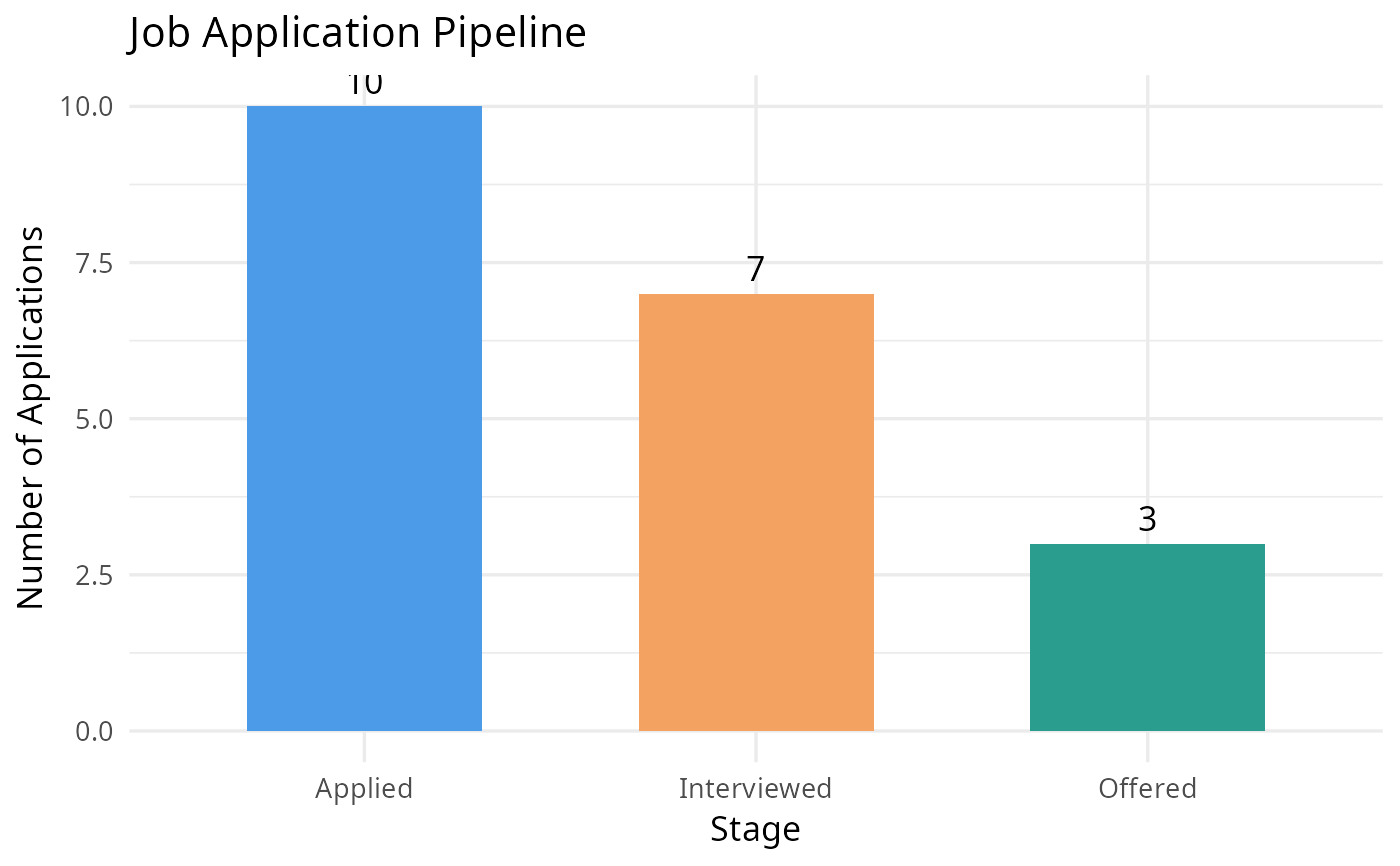
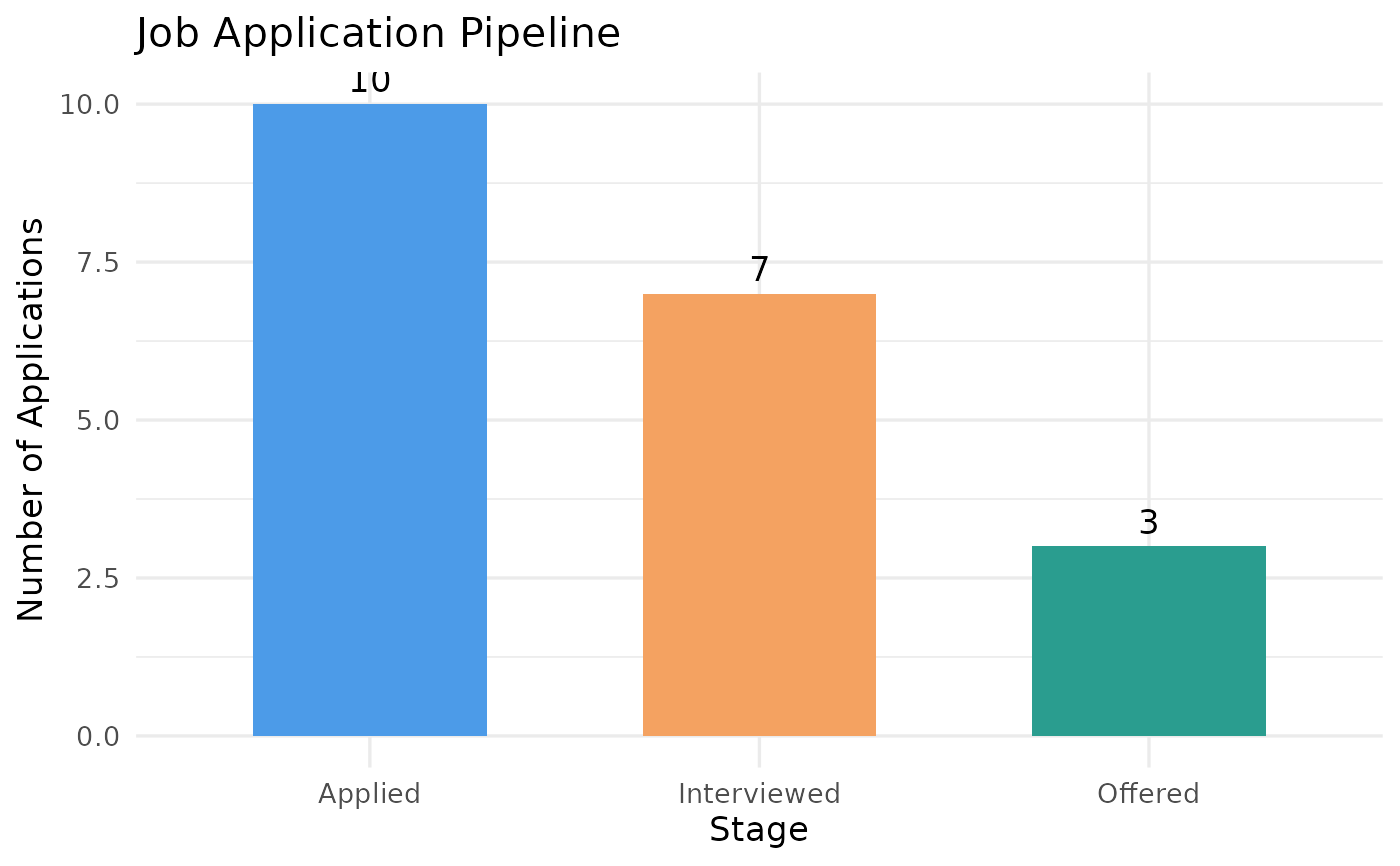
Deploying to gh-pages from @ ADC-405-S26/jobtrackeR@9a5ec8696bbc6f7580f69edbbb02525fc26d8270 🚀

diff --git a/articles/introduction-to-jobtrackr.md b/articles/introduction-to-jobtrackr.md
@@ -22,6 +22,7 @@ companies, locations, and statuses. Which I think is sort of realistic
 of what a semester of job hunting looks like.
 
 ``` r
+
 library(jobtrackr)
 data(jobs)
 ```
@@ -29,6 +30,7 @@ data(jobs)
 Let us take a quick look at what the data contains:
 
 ``` r
+
 head(jobs)
 ```
 
@@ -60,6 +62,7 @@ everything I applied to, what actually happened?
 answers that question in one line.
 
 ``` r
+
 application_summary(jobs)
 ```
 
@@ -88,6 +91,7 @@ submitted, and flags any that have gone more than 21 days with no
 response.
 
 ``` r
+
 result <- days_since_applied(jobs, flag_after = 21)
 result[result$possibly_ghosted == TRUE,
        c("company", "position", "date_applied", "days_waiting")]
@@ -123,6 +127,7 @@ adjusts each offer by the cost of living index of its city, so you can
 compare apples to apples.
 
 ``` r
+
 compare_offers(jobs)
 ```
 
@@ -151,6 +156,7 @@ gives you a visual summary of your entire job search funnel — how many
 applications made it to each stage.
 
 ``` r
+
 pipeline_stage(jobs)
 ```
 

diff --git a/index.md b/index.md
@@ -8,6 +8,7 @@ living, and visualize your hiring pipeline.
 ## Installation
 
 ``` r
+
 # install.packages("pak")
 pak::pak("ADC-405-S26/jobtrackeR")
 ```
@@ -15,6 +16,7 @@ pak::pak("ADC-405-S26/jobtrackeR")
 ## Quick Start
 
 ``` r
+
 library(jobtrackr)
 data(jobs)
 ```
@@ -22,6 +24,7 @@ data(jobs)
 ### Summarize your applications
 
 ``` r
+
 application_summary(jobs)
 #> Response rate (non-Applied): 66.7%
 #>        status count percent
@@ -34,6 +37,7 @@ application_summary(jobs)
 ### Compare offers by cost of living
 
 ``` r
+
 compare_offers(jobs)
 #>     company              position    location cost_of_living  status
 #> 1 Microsoft        Data Scientist  Seattle WA             91 Offered